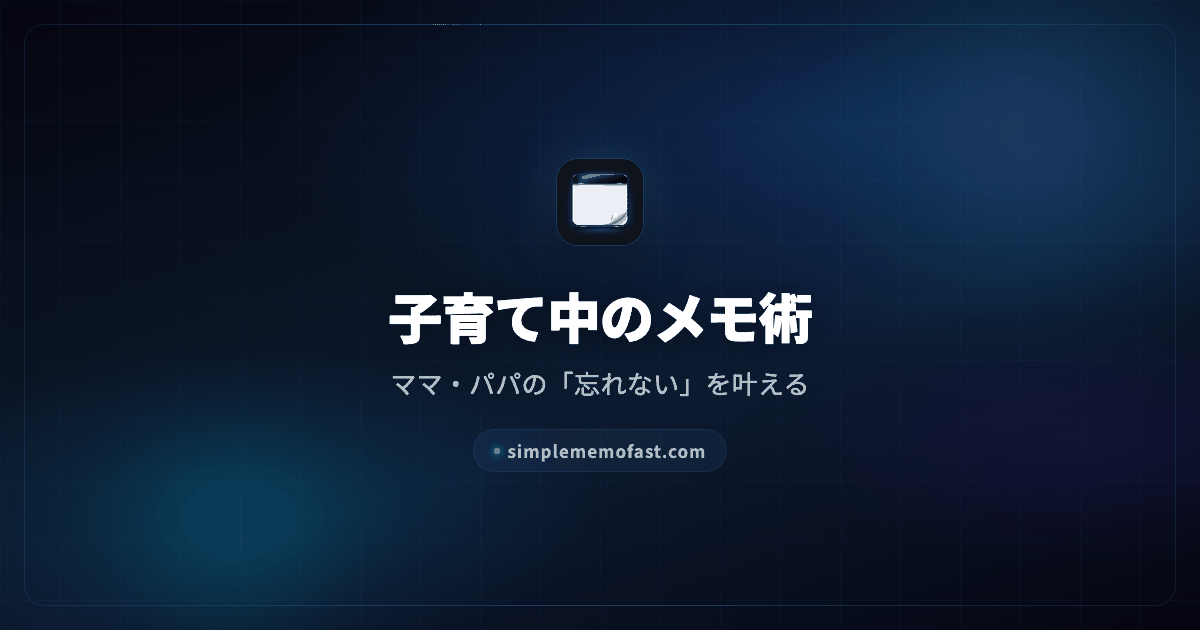
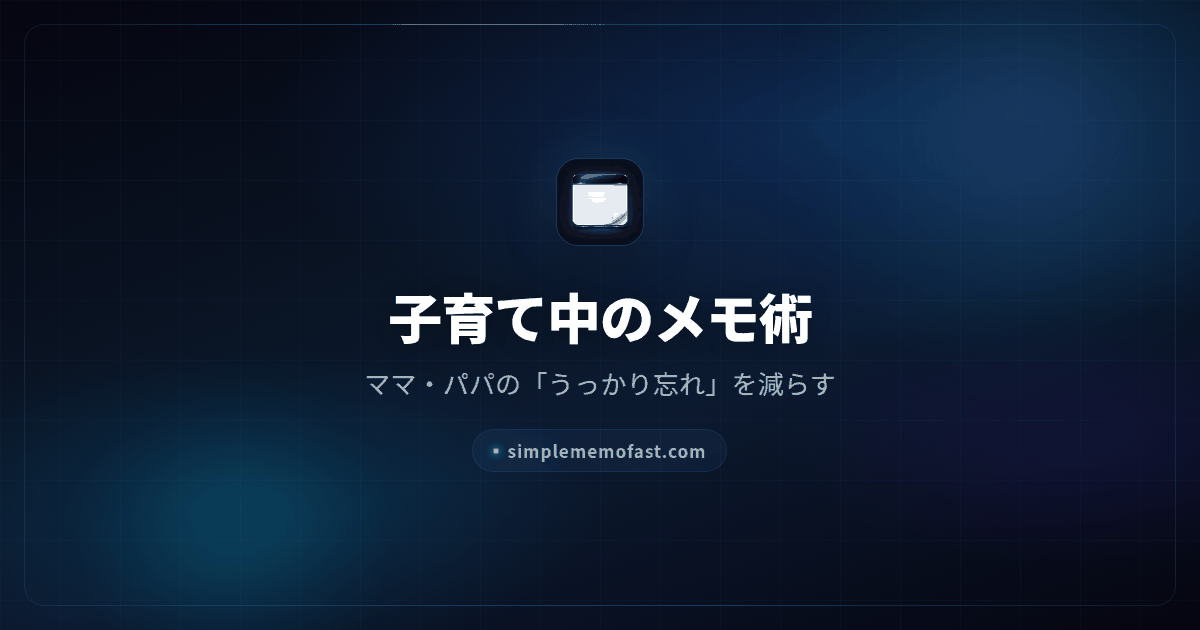
Merge validated PR #1625
Source PR: https://github.com/simplememofast/simplememo/pull/1625
Validated head: 515fc8d2d1dee462264075d669326b48ce7d5f42

Changed region(s): [[0.3083, 0.573, 0.7092, 0.6333], [0.4625, 0.4524, 0.6783, 0.5429], [0.3392, 0.4524, 0.4317, 0.5429]]

diff --git a/use-cases/parents/index.html b/use-cases/parents/index.html
@@ -23,13 +23,13 @@
       });
     });
   </script>
-  <title>子育て中のメモ術 — ママ・パパの「忘れない」を叶える | Obsidian連携シンプルメモ</title>
-  <meta name="description" content="子育て中の忙しいママ・パパ向けメモアプリ。起動0.4秒・ワンタップ送信で、子どもを抱っこしながらでも片手3秒でメモ→メール。育児中の「あとでやる」を忘れません。1日3通まで無料で使えます。育児中の記録がメール受信箱に自動で積み上がります。">
+  <title>子育て中のメモ術 — ママ・パパの「うっかり忘れ」を減らす | Obsidian連携シンプルメモ</title>
+  <meta name="description" content="子育て中の忙しいママ・パパ向けメモアプリ。起動0.4秒・ワンタップ送信で、子どもを抱っこしながらでも片手3秒でメモ→メール。育児中の「あとでやる」を忘れにくくなります。1日3通まで無料で使えます。育児中の記録がメール受信箱に自動で積み上がります。">
   <meta name="theme-color" content="#070b14">
 
   <!-- OGP -->
-  <meta property="og:title" content="子育て中のメモ術 — ママ・パパの「忘れない」を叶える | Obsidian連携シンプルメモ">
-  <meta property="og:description" content="子どもを抱っこしながらでも片手3秒でメモ→メール。起動0.4秒・ワンタップ送信。育児中の「あとでやる」を忘れません。">
+  <meta property="og:title" content="子育て中のメモ術 — ママ・パパの「うっかり忘れ」を減らす | Obsidian連携シンプルメモ">
+  <meta property="og:description" content="子どもを抱っこしながらでも片手3秒でメモ→メール。起動0.4秒・ワンタップ送信。育児中の「あとでやる」を忘れにくくなります。">
   <meta property="og:type" content="article">
   <meta property="article:published_time" content="2026-03-06T00:00:00+09:00">
   <meta property="og:url" content="https://simplememofast.com/use-cases/parents/">
@@ -43,7 +43,7 @@
   <!-- Twitter Card -->
   <meta name="twitter:card" content="summary_large_image">
   <meta name="twitter:site" content="@simplememofast">
-  <meta name="twitter:title" content="子育て中のメモ術 — ママ・パパの「忘れない」を叶える">
+  <meta name="twitter:title" content="子育て中のメモ術 — ママ・パパの「うっかり忘れ」を減らす">
   <meta name="twitter:description" content="子どもを抱っこしながらでも片手3秒でメモ→メール。起動0.4秒・ワンタップ送信。">
   <meta name="twitter:image" content="https://simplememofast.com/assets/img/og/use-cases-parents.png">
   <link rel="preconnect" href="https://analytics.ahrefs.com">
@@ -60,7 +60,7 @@
   <link rel="manifest" href="/assets/favicon/site.webmanifest">
 
   <!-- JSON-LD: Article -->
-  <script type="application/ld+json">{"@context":"https://schema.org","@type":"Article","@id":"https://simplememofast.com/use-cases/parents/#article","inLanguage":"ja","image":"https://simplememofast.com/assets/img/og/use-cases-parents.png","headline":"子育て中のメモ術 — ママ・パパの「忘れない」を叶える方法","description":"子育て中の忙しいママ・パパが片手3秒でメモ→メール送信。育児中の予定やタスクを忘れない方法を解説。","url":"https://simplememofast.com/use-cases/parents/","datePublished":"2026-03-06","dateModified":"2026-09-06","author":{"@type":"Person","@id":"https://simplememofast.com/about/#person","name":"AI ATAKA","url":"https://simplememofast.com/about/"},"publisher":{"@type":"Organization","name":"Obsidian連携シンプルメモ","@id":"https://simplememofast.com/#organization","url":"https://simplememofast.com/","logo":{"@type":"ImageObject","url":"https://simplememofast.com/assets/img/app-icon-256.png","width":256,"height":256},"alternateName":["Captio式シンプルメモ","シンプルメモ","SimpleMemoFast","Simple Memo","Simple Memo - for Obsidian"]},"mainEntityOfPage":{"@type":"WebPage","@id":"https://simplememofast.com/use-cases/parents/"}}</script>
+  <script type="application/ld+json">{"@context":"https://schema.org","@type":"Article","@id":"https://simplememofast.com/use-cases/parents/#article","inLanguage":"ja","image":"https://simplememofast.com/assets/img/og/use-cases-parents.png","headline":"子育て中のメモ術 — ママ・パパの「うっかり忘れ」を減らす方法","description":"子育て中の忙しいママ・パパが片手3秒でメモ→メール送信。育児中の予定やタスクの忘れを減らす方法を解説。","url":"https://simplememofast.com/use-cases/parents/","datePublished":"2026-03-06","dateModified":"2026-09-26","author":{"@type":"Person","@id":"https://simplememofast.com/about/#person","name":"AI ATAKA","url":"https://simplememofast.com/about/"},"publisher":{"@type":"Organization","name":"Obsidian連携シンプルメモ","@id":"https://simplememofast.com/#organization","url":"https://simplememofast.com/","logo":{"@type":"ImageObject","url":"https://simplememofast.com/assets/img/app-icon-256.png","width":256,"height":256},"alternateName":["Captio式シンプルメモ","シンプルメモ","SimpleMemoFast","Simple Memo","Simple Memo - for Obsidian"]},"mainEntityOfPage":{"@type":"WebPage","@id":"https://simplememofast.com/use-cases/parents/"}}</script>
 
   <!-- JSON-LD: BreadcrumbList -->
   <script type="application/ld+json">
@@ -256,7 +256,7 @@
 
   <!-- JSON-LD: Speakable -->
   <script type="application/ld+json">
-  {"@context":"https://schema.org","@type":"WebPage","@id":"https://simplememofast.com/use-cases/parents/#webpage","inLanguage":"ja","name":"子育て中のメモ術 — ママ・パパの「忘れない」を叶える","speakable":{"@type":"SpeakableSpecification","cssSelector":[".lp-hero__title",".lp-hero__sub",".scenario-block__title"]},"url":"https://simplememofast.com/use-cases/parents/","isPartOf":{"@id":"https://simplememofast.com/#website"}}
+  {"@context":"https://schema.org","@type":"WebPage","@id":"https://simplememofast.com/use-cases/parents/#webpage","inLanguage":"ja","name":"子育て中のメモ術 — ママ・パパの「うっかり忘れ」を減らす","speakable":{"@type":"SpeakableSpecification","cssSelector":[".lp-hero__title",".lp-hero__sub",".scenario-block__title"]},"url":"https://simplememofast.com/use-cases/parents/","isPartOf":{"@id":"https://simplememofast.com/#website"}}
   </script>
   <script src="https://analytics.ahrefs.com/analytics.js" data-key="6MwVxHQiKMs/Wl2rNBoiwQ" async></script>
   <!-- faq-schema: managed by scripts/inject_faq_schema.py -->
@@ -301,7 +301,7 @@
 
         </div>
         <h1 class="lp-hero__title">
-          <span lang="ja">子育て中の「忘れない」を<br>片手3秒のメモで叶える</span>
+          <span lang="ja">子育て中の「うっかり忘れ」を<br>片手3秒のメモで減らす</span>
 
         </h1>
         <p class="lp-hero__sub">
@@ -441,7 +441,7 @@
       <!-- CTA -->
       <div class="cta-box">
         <div class="cta-box__title">
-          <span lang="ja">子育て中の「忘れない」を今日から始める</span>
+          <span lang="ja">子育て中の「うっかり忘れ」対策を今日から始める</span>
 
         </div>
         <div class="cta-box__desc">

diff --git a/en/use-cases/parents/index.html b/en/use-cases/parents/index.html
@@ -24,11 +24,11 @@
       });
     });
   </script>
-<title>Memo Tips for Busy Parents — Never Forget Again | Simple Memo</title>
+<title>Memo Tips for Busy Parents — Forget Less, One-Handed | Simple Memo</title>
 <meta content="Capture tasks in 3 seconds with one hand while holding your baby. 0.4s launch, one-tap send to email. Review everything during naptime." name="description"/>
 <meta content="#070b14" name="theme-color"/>
 <!-- OGP -->
-<meta content="Memo Tips for Busy Parents — Never Forget Again" property="og:title"/>
+<meta content="Memo Tips for Busy Parents — Forget Less, One-Handed" property="og:title"/>
 <meta content="Capture tasks in 3 seconds with one hand while holding your baby. 0.4s launch, one-tap send to email. Review everything during naptime." property="og:description"/>
 <meta content="article" property="og:type"/>
 <meta content="2026-03-06T00:00:00+09:00" property="article:published_time"/>
@@ -42,7 +42,7 @@
 <!-- Twitter Card -->
 <meta content="summary_large_image" name="twitter:card"/>
 <meta content="@simplememofast" name="twitter:site"/>
-<meta content="Memo Tips for Busy Parents — Never Forget Again" name="twitter:title"/>
+<meta content="Memo Tips for Busy Parents — Forget Less, One-Handed" name="twitter:title"/>
 <meta content="Capture tasks in 3 seconds with one hand while holding your baby. 0.4s launch, one-tap send to email. Review everything during naptime." name="twitter:description"/>
 <meta content="https://simplememofast.com/assets/img/og/use-cases-parents.png" name="twitter:image"/>
 <link href="https://analytics.ahrefs.com" rel="preconnect"/>
@@ -54,9 +54,9 @@
 <link href="/assets/favicon/apple-touch-icon.png" rel="apple-touch-icon" sizes="180x180"/>
 <link href="/assets/favicon/site.webmanifest" rel="manifest"/>
 <!-- JSON-LD: Article -->
-<script type="application/ld+json">{"@context":"https://schema.org","@type":"Article","@id":"https://simplememofast.com/en/use-cases/parents/#article","inLanguage":"en","image":"https://simplememofast.com/assets/img/og/use-cases-parents.png","headline":"Memo Tips for Busy Parents — Never Forget Again | Simple Memo","description":"Capture tasks in 3 seconds with one hand while holding your baby. 0.4s launch, one-tap send to email. Review everything during naptime.","url":"https://simplememofast.com/en/use-cases/parents/","datePublished":"2026-03-06","dateModified":"2026-09-06","author":{"@type":"Person","@id":"https://simplememofast.com/about/#person","name":"AI ATAKA","url":"https://simplememofast.com/about/"},"publisher":{"@type":"Organization","name":"Simple Memo - for Obsidian","@id":"https://simplememofast.com/#organization","url":"https://simplememofast.com/","logo":{"@type":"ImageObject","url":"https://simplememofast.com/assets/img/app-icon-256.png","width":256,"height":256},"alternateName":["Simple Memo - for Obsidian","シンプルメモ","SimpleMemoFast","Simple Memo","Obsidian連携シンプルメモ"]},"mainEntityOfPage":{"@type":"WebPage","@id":"https://simplememofast.com/en/use-cases/parents/"}}</script>
+<script type="application/ld+json">{"@context":"https://schema.org","@type":"Article","@id":"https://simplememofast.com/en/use-cases/parents/#article","inLanguage":"en","image":"https://simplememofast.com/assets/img/og/use-cases-parents.png","headline":"Memo Tips for Busy Parents — Forget Less, One-Handed | Simple Memo","description":"Capture tasks in 3 seconds with one hand while holding your baby. 0.4s launch, one-tap send to email. Review everything during naptime.","url":"https://simplememofast.com/en/use-cases/parents/","datePublished":"2026-03-06","dateModified":"2026-09-26","author":{"@type":"Person","@id":"https://simplememofast.com/about/#person","name":"AI ATAKA","url":"https://simplememofast.com/about/"},"publisher":{"@type":"Organization","name":"Simple Memo - for Obsidian","@id":"https://simplememofast.com/#organization","url":"https://simplememofast.com/","logo":{"@type":"ImageObject","url":"https://simplememofast.com/assets/img/app-icon-256.png","width":256,"height":256},"alternateName":["Simple Memo - for Obsidian","シンプルメモ","SimpleMemoFast","Simple Memo","Obsidian連携シンプルメモ"]},"mainEntityOfPage":{"@type":"WebPage","@id":"https://simplememofast.com/en/use-cases/parents/"}}</script>
 <!-- JSON-LD: BreadcrumbList -->
-<script type="application/ld+json">{"@context":"https://schema.org","@type":"BreadcrumbList","itemListElement":[{"@type":"ListItem","position":1,"name":"Home","item":"https://simplememofast.com/en/"},{"@type":"ListItem","position":2,"name":"Use Cases How to Use Simple Memo","item":"https://simplememofast.com/en/use-cases/"},{"@type":"ListItem","position":3,"name":"Never Forget a Thing with 3-Second Parenting Memos","item":"https://simplememofast.com/en/use-cases/parents/"}]}</script>
+<script type="application/ld+json">{"@context":"https://schema.org","@type":"BreadcrumbList","itemListElement":[{"@type":"ListItem","position":1,"name":"Home","item":"https://simplememofast.com/en/"},{"@type":"ListItem","position":2,"name":"Use Cases How to Use Simple Memo","item":"https://simplememofast.com/en/use-cases/"},{"@type":"ListItem","position":3,"name":"Forget Less with 3-Second Parenting Memos","item":"https://simplememofast.com/en/use-cases/parents/"}]}</script>
 <link href="/assets/css/style.min.css?v=aa4747a0f6" rel="stylesheet"/>
 <link as="font" crossorigin="" href="/assets/fonts/NotoSansJP-Regular-subset.woff2?v=a4c50a515e" rel="preload" type="font/woff2"/>
 <link as="font" crossorigin="" href="/assets/fonts/NotoSansJP-Bold-subset.woff2?v=7c9688959a" rel="preload" type="font/woff2"/>
@@ -238,7 +238,7 @@
 
   </style>
 <!-- JSON-LD: Speakable -->
-<script type="application/ld+json">{"@context":"https://schema.org","@type":"WebPage","@id":"https://simplememofast.com/en/use-cases/parents/#webpage","inLanguage":"en","name":"Memo Tips for Busy Parents — Never Forget Again | Simple Memo","speakable":{"@type":"SpeakableSpecification","cssSelector":[".lp-hero__title",".lp-hero__sub",".scenario-block__title"]},"url":"https://simplememofast.com/en/use-cases/parents/","isPartOf":{"@id":"https://simplememofast.com/#website"}}</script>
+<script type="application/ld+json">{"@context":"https://schema.org","@type":"WebPage","@id":"https://simplememofast.com/en/use-cases/parents/#webpage","inLanguage":"en","name":"Memo Tips for Busy Parents — Forget Less, One-Handed | Simple Memo","speakable":{"@type":"SpeakableSpecification","cssSelector":[".lp-hero__title",".lp-hero__sub",".scenario-block__title"]},"url":"https://simplememofast.com/en/use-cases/parents/","isPartOf":{"@id":"https://simplememofast.com/#website"}}</script>
 <script async="" data-key="6MwVxHQiKMs/Wl2rNBoiwQ" src="https://analytics.ahrefs.com/analytics.js"></script>
   <!-- i18n: managed by scripts/normalize_i18n_head.py -->
   <link rel="canonical" href="https://simplememofast.com/en/use-cases/parents/">
@@ -288,7 +288,7 @@
 </div>
 <h1 class="lp-hero__title">
 
-<span lang="en">Never Forget a Thing<br/>with 3-Second Parenting Memos</span>
+<span lang="en">Forget Less<br/>with 3-Second Parenting Memos</span>
 </h1>
 <p class="lp-hero__sub">
 

diff --git a/blog/morning-memo-routine.html b/blog/morning-memo-routine.html
@@ -277,11 +277,11 @@
         <div class="tip-card">
           <div class="tip-card__desc">
             <p>毎朝「今日の3つ」を書いて自分宛てに送っておけば、午前中に何から手をつけるかで迷う時間を減らせます。</p>
-            <p style="margin-top:.75rem">朝のメモが効果的な3つの科学的理由：</p>
+            <p style="margin-top:.75rem">朝のメモが役立ちやすい3つの理由：</p>
             <ul style="margin-top:.5rem;padding-left:1.2rem">
-              <li><strong>前頭前皮質の活性化：</strong>起床後2〜4時間は前頭前皮質（計画・判断を司る脳の部位）が最も活性化しています。この時間にメモを書くと、質の高い計画が立てられます。</li>
-              <li><strong>意志力の温存：</strong>1日の意志力（ウィルパワー）は有限。朝一番にメモで計画を立てれば、日中の意思決定の負荷が減り、重要な判断にエネルギーを使えます。</li>
-              <li><strong>ザイガルニク効果：</strong>未完了のタスクは脳にストレスを与え続けます。朝にタスクを書き出すことで「脳の外部メモリ」に移し、ストレスを解放します。</li>
+              <li><strong>考えやすい時間に書く：</strong>朝のほうが計画を立てやすい人は多いものの、朝型・夜型には個人差があります（Randler 2009 は、主体性の高い人ほど朝型の傾向があると報告）。自分が落ち着いて考えられる時間に書くのが基本です。</li>
+              <li><strong>迷う回数を減らす：</strong>朝に計画を決めておけば、日中に「次に何をするか」を考える回数が減ります（「意志力は使うと減る」という自我消耗の説は、2016年の大規模な再現研究では効果がほとんど見られませんでした）。</li>
+              <li><strong>書き出して手放す：</strong>やり残したことを具体的な計画として書き出すと、それが頭から離れない状態が弱まったという実験があります（Masicampo &amp; Baumeister 2011）。</li>
             </ul>
           </div>
         </div>
@@ -395,7 +395,7 @@
       <div lang="ja">
         <div class="tip-card">
           <div class="tip-card__desc">
-            <p>「朝メモに15分もかけられない」という方のために、たった3分で完了する超効率テンプレートを紹介します。このテンプレートは、認知科学の「プライミング効果」を活用し、短時間でも脳を仕事モードに切り替えます。</p>
+            <p>「朝メモに15分もかけられない」という方のために、たった3分で完了する超効率テンプレートを紹介します。短い時間でも、その日の最初にやることを決めてから動き出せます。</p>
             <p style="margin-top:.75rem"><strong>3分テンプレート：</strong></p>
             <ol style="margin-top:.5rem;padding-left:1.2rem;line-height:2.2">
               <li><strong>0:00〜0:30 — 今の気分を一言で（感情チェックイン）</strong><br>「やる気あり」「少しだるい」「ワクワク」など。自分の状態を客観視することで、1日の過ごし方を調整できます。</li>
@@ -413,7 +413,7 @@
           </div>
         </div>
         <div class="tip-card">
-          <div class="tip-card__header"><span class="tip-card__name">3分テンプレートが効く理由</span><span class="tip-card__rank">科学的根拠</span></div>
+          <div class="tip-card__header"><span class="tip-card__name">3分テンプレートが効く理由</span><span class="tip-card__rank">研究</span></div>
           <div class="tip-card__desc">
             <p>この短縮テンプレートが効果的な理由は3つあります。</p>
             <ul style="margin-top:.5rem;padding-left:1.2rem">
@@ -480,7 +480,7 @@
         <a href="/blog/memo-habit"><span lang="ja">メモ習慣化ガイド</span></a>
         <a href="/blog/journaling-for-beginners"><span lang="ja">ジャーナリング入門</span></a>
         <a href="/blog/memo-taking-tips"><span lang="ja">メモの取り方コツ10選</span></a>
-        <a href="/blog/brain-science-memo"><span lang="ja">脳科学とメモ</span></a>
+        <a href="/blog/brain-science-memo"><span lang="ja">メモと記憶の研究</span></a>
         <a href="/methods/"><span lang="ja">メソッド一覧</span></a>
         <a href="/blog/"><span lang="ja">ブログ一覧</span></a>
       </div>
@@ -493,6 +493,8 @@
         <li lang="ja">Randler, C. (2009). Proactive People Are Morning People（主体性の高い人は朝型である）. <em>Journal of Applied Social Psychology</em>, 39(12), 2787-2797. <a href="https://doi.org/10.1111/j.1559-1816.2009.00549.x" style="color:var(--accent);">DOI</a></li>
 
         <li lang="ja">Baumeister, R.F. et al. (1998). 「自我消耗：能動的自己が限られたリソースであるか」 <em>Journal of Personality and Social Psychology</em>, 74(5), 1252-1265. <a href="https://doi.org/10.1037/0022-3514.74.5.1252" style="color:var(--accent);">DOI</a></li>
+
+        <li lang="ja">Hagger, M.S. et al. (2016). A Multilab Preregistered Replication of the Ego-Depletion Effect（自我消耗効果の多施設・事前登録の再現研究）. <em>Perspectives on Psychological Science</em>, 11(4), 546-573. <a href="https://doi.org/10.1177/1745691616652873" style="color:var(--accent);">DOI</a></li>
 
         <li lang="ja">Masicampo, E.J. &amp; Baumeister, R.F. (2011). Consider it done! Plan making can eliminate the cognitive effects of unfulfilled goals（完了したとみなせ！計画を立てると未達成の目標の認知的な影響は解消しうる） <em>Journal of Personality and Social Psychology</em>, 101(4), 667-683. <a href="https://doi.org/10.1037/a0024192" style="color:var(--accent);">DOI</a></li>
 

diff --git a/blog/digital-vs-handwritten-notes.html b/blog/digital-vs-handwritten-notes.html
@@ -348,7 +348,7 @@
       <h2 class="lp-section__title"><span lang="ja">ハイブリッド活用のベストプラクティス</span></h2>
       <div lang="ja">
         <div class="tip-card"><div class="tip-card__header"><span class="tip-card__name"><span class="step-number">1</span>キャプチャはデジタル、深掘りは手書き</span><span class="tip-card__rank">基本戦略</span></div><div class="tip-card__desc"><p>最も効果的なハイブリッド戦略は、「思いついた瞬間のキャプチャはデジタル、後から深く考えるときは手書き」の使い分けです。アイデアが浮かんだ瞬間にObsidian連携シンプルメモで即座に送信し、1日の終わりや週末にメールを見返しながら重要なものだけを手書きノートに転記して深掘りします。</p><p style="margin-top:.75rem">この方法は、日々のアプリ開発でも実践しており、通勤中に浮かんだUIの改善案をデジタルでキャプチャし、週末に手書きでスケッチに落とし込んでいます。このワークフローの利点は、アイデアの取りこぼしが減ることです。デジタルキャプチャは速度と網羅性に優れ、手書き転記は記憶定着と思考の深掘りに優れます。両方の長所を最大化するハイブリッドアプローチです。</p></div></div>
-        <div class="tip-card"><div class="tip-card__header"><span class="tip-card__name"><span class="step-number">2</span>「朝は手書き、日中はデジタル」の時間帯分け</span><span class="tip-card__rank">時間戦略</span></div><div class="tip-card__desc"><p>朝の静かな時間帯に手書きで「今日の目標」や「朝のリフレクション」を書き、日中のアクティブな時間帯はデジタルでアイデアやタスクをキャプチャする。この時間帯による使い分けも効果的です。</p><p style="margin-top:.75rem">朝の手書きは脳のウォーミングアップとして機能し、前頭前皮質を活性化させます。モーニングページ（ジュリア・キャメロン提唱の朝のジャーナリング手法）を手書きで実践している人も多いです。一方、日中は移動や会議が多く、手書きの余裕がないため、スマホでのデジタルキャプチャが現実的です。この切り替えにより、両方のメリットを1日の中で享受できます。</p></div></div>
+        <div class="tip-card"><div class="tip-card__header"><span class="tip-card__name"><span class="step-number">2</span>「朝は手書き、日中はデジタル」の時間帯分け</span><span class="tip-card__rank">時間戦略</span></div><div class="tip-card__desc"><p>朝の静かな時間帯に手書きで「今日の目標」や「朝のリフレクション」を書き、日中のアクティブな時間帯はデジタルでアイデアやタスクをキャプチャする。この時間帯による使い分けも効果的です。</p><p style="margin-top:.75rem">朝の手書きを、1日の考えを整える準備の時間にしている人もいます。モーニングページ（ジュリア・キャメロン提唱の朝のジャーナリング手法）を手書きで実践している人も多いです。一方、日中は移動や会議が多く、手書きの余裕がないため、スマホでのデジタルキャプチャが現実的です。この切り替えにより、両方のメリットを1日の中で享受できます。</p></div></div>
         <div class="tip-card"><div class="tip-card__header"><span class="tip-card__name"><span class="step-number">3</span>手書きメモをデジタルでバックアップする</span><span class="tip-card__rank">安全策</span></div><div class="tip-card__desc"><p>手書きメモの最大のリスクは紛失です。ノートを置き忘れる、水に濡れる、ページが破れる。これらのリスクを回避するために、手書きメモの写真をObsidian連携シンプルメモで自分のメールに送信するバックアップ術が有効です。</p><p style="margin-top:.75rem">実践方法はシンプルです。手書きメモを1ページ書き終えたら、スマホで写真を撮り、その画像をCaptio式で自分のメールに送信するだけ。これで手書きの記憶定着効果を得ながら、デジタルのバックアップと検索性も確保できます。メールの件名に「手書きノート 日付 トピック」を入れておけば、後から検索も容易です。</p></div></div>
         <div class="tip-card"><div class="tip-card__header"><span class="tip-card__name"><span class="step-number">4</span>用途別の「ツールマップ」を作る</span><span class="tip-card__rank">仕組み化</span></div><div class="tip-card__desc"><p>ハイブリッド運用を成功させるには、「何にどちらを使うか」を事前に決めておくことが重要です。判断に迷う時間をゼロにするために、自分だけの「ツールマップ」を作りましょう。</p><p style="margin-top:.75rem">例えば：アイデアメモ → デジタル（Captio式）、勉強ノート → 手書き（A5ノート）、会議メモ → デジタル（Captio式で送信後にメール内で整理）、読書感想 → 手書き（余白に直接書き込み＋重要部分をデジタルでキャプチャ）、日記 → 手書き（寝る前の5分）。このように用途ごとにツールを固定することで、「どっちを使おうか」という判断コストがなくなり、メモの習慣が定着しやすくなります。</p></div></div>
       </div>

diff --git a/blog/memo-habit.html b/blog/memo-habit.html
@@ -224,7 +224,7 @@
   </style>
   <script src="https://analytics.ahrefs.com/analytics.js" data-key="6MwVxHQiKMs/Wl2rNBoiwQ" async></script>
   <!-- faq-schema: managed by scripts/inject_faq_schema.py -->
-  <script type="application/ld+json">{"@context":"https://schema.org","@type":"FAQPage","@id":"https://simplememofast.com/blog/memo-habit#faq","inLanguage":"ja","mainEntity":[{"@type":"Question","name":"メモ習慣が続かない原因は何ですか？","acceptedAnswer":{"@type":"Answer","text":"最大の原因は「摩擦」です。アプリの起動が遅い、書く内容を考えすぎる、完璧なメモを目指すなどの摩擦がメモ習慣を阻害します。摩擦を徹底的に減らすことが習慣化の鍵です。"}},{"@type":"Question","name":"メモを習慣にするには何日かかりますか？","acceptedAnswer":{"@type":"Answer","text":"ロンドン大学（UCL）の研究（Lally ほか, 2010）では、行動が自動的にできるようになるまでの日数は、人と行動によって18〜254日と幅があり、中央値は66日でした。21日間のプログラムは最初の区切りとして使ってください。この研究では、1日抜けても、その後の定着への影響は小さいと報告されています。"}},{"@type":"Question","name":"朝と夜、どちらにメモを取るべきですか？","acceptedAnswer":{"@type":"Answer","text":"朝は「今日やること」のプランニングメモ、夜は「今日の振り返り」メモが効果的です。両方できれば理想的ですが、まずはどちらか一方から始めるのがおすすめです。"}}]}</script>
+  <script type="application/ld+json">{"@context":"https://schema.org","@type":"FAQPage","@id":"https://simplememofast.com/blog/memo-habit#faq","inLanguage":"ja","mainEntity":[{"@type":"Question","name":"メモ習慣が続かない原因は何ですか？","acceptedAnswer":{"@type":"Answer","text":"よくある原因は「摩擦」です。アプリの起動が遅い、書く内容を考えすぎる、完璧なメモを目指すなどの摩擦がメモ習慣を阻害します。摩擦を徹底的に減らすことが習慣化の鍵です。"}},{"@type":"Question","name":"メモを習慣にするには何日かかりますか？","acceptedAnswer":{"@type":"Answer","text":"ロンドン大学（UCL）の研究（Lally ほか, 2010）では、行動が自動的にできるようになるまでの日数は、人と行動によって18〜254日と幅があり、中央値は66日でした。21日間のプログラムは最初の区切りとして使ってください。この研究では、1日抜けても、その後の定着への影響は小さいと報告されています。"}},{"@type":"Question","name":"朝と夜、どちらにメモを取るべきですか？","acceptedAnswer":{"@type":"Answer","text":"朝は「今日やること」のプランニングメモ、夜は「今日の振り返り」メモが効果的です。両方できれば理想的ですが、まずはどちらか一方から始めるのがおすすめです。"}}]}</script>
 </head>
 <body>
   <!-- Global Navigation -->
@@ -496,7 +496,7 @@
     <section class="lp-section">
       <h2 class="lp-section__title"><span lang="ja">よくある質問</span></h2>
       <div lang="ja">
-        <div class="faq-item"><details class="faq-details"><summary class="faq-summary">メモ習慣が続かない原因は何ですか？</summary><div class="faq-answer"><p>最大の原因は「摩擦」です。アプリの起動が遅い、書く内容を考えすぎる、完璧なメモを目指すなどの摩擦がメモ習慣を阻害します。摩擦を徹底的に減らすことが習慣化の鍵です。</p></div></details></div>
+        <div class="faq-item"><details class="faq-details"><summary class="faq-summary">メモ習慣が続かない原因は何ですか？</summary><div class="faq-answer"><p>よくある原因は「摩擦」です。アプリの起動が遅い、書く内容を考えすぎる、完璧なメモを目指すなどの摩擦がメモ習慣を阻害します。摩擦を徹底的に減らすことが習慣化の鍵です。</p></div></details></div>
         <div class="faq-item"><details class="faq-details"><summary class="faq-summary">メモを習慣にするには何日かかりますか？</summary><div class="faq-answer"><p>ロンドン大学（UCL）の研究（Lally ほか, 2010）では、行動が自動的にできるようになるまでの日数は、人と行動によって18〜254日と幅があり、中央値は66日でした。21日間のプログラムは最初の区切りとして使ってください。この研究では、1日抜けても、その後の定着への影響は小さいと報告されています。</p></div></details></div>
         <div class="faq-item"><details class="faq-details"><summary class="faq-summary">朝と夜、どちらにメモを取るべきですか？</summary><div class="faq-answer"><p>朝は「今日やること」のプランニングメモ、夜は「今日の振り返り」メモが効果的です。両方できれば理想的ですが、まずはどちらか一方から始めるのがおすすめです。</p></div></details></div>
       </div>

diff --git a/en/blog/memo-habit.html b/en/blog/memo-habit.html
@@ -202,7 +202,7 @@
   <!-- locale-seed: declare EN once so dual-DOM pages resolve to English (scripts/inject_locale_seed.py) -->
   <script>try{var k='simple-memo-lang';if(!localStorage.getItem(k))localStorage.setItem(k,'en')}catch(e){}</script>
   <!-- faq-schema: managed by scripts/inject_faq_schema.py -->
-  <script type="application/ld+json">{"@context":"https://schema.org","@type":"FAQPage","@id":"https://simplememofast.com/en/blog/memo-habit#faq","inLanguage":"en","mainEntity":[{"@type":"Question","name":"Why can't I stick to a note-taking habit?","acceptedAnswer":{"@type":"Answer","text":"The biggest reason is friction. Slow app launches, overthinking what to write, and aiming for perfect notes all create friction that kills habits. Reducing friction is the key to building a lasting memo habit."}},{"@type":"Question","name":"How long does it take to build a memo habit?","acceptedAnswer":{"@type":"Answer","text":"A University College London study (Lally et al., 2010) found that the time for a behavior to become automatic ranged from 18 to 254 days depending on the person and the behavior, with a median of 66 days. Treat the 21-day program as a first milestone; in that study, missing a single day did not materially affect habit formation."}},{"@type":"Question","name":"Should I take notes in the morning or evening?","acceptedAnswer":{"@type":"Answer","text":"Morning is best for planning memos (what to do today), evening for reflection memos (what happened today). Ideally do both, but start with whichever feels more natural."}}]}</script>
+  <script type="application/ld+json">{"@context":"https://schema.org","@type":"FAQPage","@id":"https://simplememofast.com/en/blog/memo-habit#faq","inLanguage":"en","mainEntity":[{"@type":"Question","name":"Why can't I stick to a note-taking habit?","acceptedAnswer":{"@type":"Answer","text":"A common reason is friction. Slow app launches, overthinking what to write, and aiming for perfect notes all create friction that kills habits. Reducing friction is the key to building a lasting memo habit."}},{"@type":"Question","name":"How long does it take to build a memo habit?","acceptedAnswer":{"@type":"Answer","text":"A University College London study (Lally et al., 2010) found that the time for a behavior to become automatic ranged from 18 to 254 days depending on the person and the behavior, with a median of 66 days. Treat the 21-day program as a first milestone; in that study, missing a single day did not materially affect habit formation."}},{"@type":"Question","name":"Should I take notes in the morning or evening?","acceptedAnswer":{"@type":"Answer","text":"Morning is best for planning memos (what to do today), evening for reflection memos (what happened today). Ideally do both, but start with whichever feels more natural."}}]}</script>
 </head>
 <body>
 <!-- Global Navigation -->
@@ -465,7 +465,7 @@
 <h2 class="lp-section__title"><span lang="en">FAQ</span></h2>
 
 <div lang="en">
-<div class="faq-item"><details class="faq-details"><summary class="faq-summary">Why can't I stick to a note-taking habit?</summary><div class="faq-answer"><p>The biggest reason is friction. Slow app launches, overthinking what to write, and aiming for perfect notes all create friction that kills habits. Reducing friction is the key to building a lasting memo habit.</p></div></details></div>
+<div class="faq-item"><details class="faq-details"><summary class="faq-summary">Why can't I stick to a note-taking habit?</summary><div class="faq-answer"><p>A common reason is friction. Slow app launches, overthinking what to write, and aiming for perfect notes all create friction that kills habits. Reducing friction is the key to building a lasting memo habit.</p></div></details></div>
 <div class="faq-item"><details class="faq-details"><summary class="faq-summary">How long does it take to build a memo habit?</summary><div class="faq-answer"><p>A University College London study (Lally et al., 2010) found that the time for a behavior to become automatic ranged from 18 to 254 days depending on the person and the behavior, with a median of 66 days. Treat the 21-day program as a first milestone; in that study, missing a single day did not materially affect habit formation.</p></div></details></div>
 <div class="faq-item"><details class="faq-details"><summary class="faq-summary">Should I take notes in the morning or evening?</summary><div class="faq-answer"><p>Morning is best for planning memos (what to do today), evening for reflection memos (what happened today). Ideally do both, but start with whichever feels more natural.</p></div></details></div>
 </div>

diff --git a/en/blog/morning-memo-routine.html b/en/blog/morning-memo-routine.html
@@ -252,11 +252,11 @@
 <div lang="en">
 <div class="tip-card">
 <div class="tip-card__desc">
-<p>3 scientific reasons why morning memos work:</p>
+<p>3 reasons morning memos tend to help:</p>
 <ul style="margin-top:.5rem;padding-left:1.2rem">
-<li><strong>Prefrontal cortex activation:</strong> 2-4 hours after waking, the prefrontal cortex (planning and judgment center) is most active. Writing memos during this window produces higher quality plans.</li>
-<li><strong>Willpower conservation:</strong> Daily willpower is finite. Planning via morning memos reduces decision fatigue, saving energy for important choices.</li>
-<li><strong>Zeigarnik effect:</strong> Unfinished tasks create ongoing mental stress. Writing tasks down transfers them to "external brain memory," releasing cognitive load.</li>
+<li><strong>Write when you think clearly:</strong> Many people find planning easier in the morning, but chronotypes differ (Randler 2009 reported that more proactive people tend to be morning types). Write at the time you can think calmly.</li>
+<li><strong>Fewer decisions later:</strong> Deciding the plan in the morning means fewer "what next?" moments during the day. (The ego-depletion idea that willpower runs out showed an effect near zero in a large 2016 multi-lab replication.)</li>
+<li><strong>Write it down and let go:</strong> In experiments, making a specific plan for an unfinished task reduced how much it kept intruding on people's thoughts (Masicampo &amp; Baumeister 2011).</li>
 </ul>
 </div>
 </div>
@@ -364,7 +364,7 @@
 <div lang="en">
 <div class="tip-card">
 <div class="tip-card__desc">
-<p>If you think "I can't spend 15 minutes on morning memos," here is an ultra-efficient 3-minute template. It leverages the cognitive science concept of "priming effect" to shift your brain into work mode even in a short time.</p>
+<p>If you think "I can't spend 15 minutes on morning memos," here is an ultra-efficient 3-minute template. Even in a short time, you decide the first thing to do before you start.</p>
 <p style="margin-top:.75rem"><strong>3-Minute Template:</strong></p>
 <ol style="margin-top:.5rem;padding-left:1.2rem;line-height:2.2">
 <li><strong>0:00-0:30 -- Mood check-in (one word)</strong><br/>"Energized," "a bit tired," "excited," etc. Objectively observing your state helps you adjust how you approach the day.</li>
@@ -382,7 +382,7 @@
           </div>
 </div>
 <div class="tip-card">
-<div class="tip-card__header"><span class="tip-card__name">Why the 3-Minute Template Works</span><span class="tip-card__rank">Science-Backed</span></div>
+<div class="tip-card__header"><span class="tip-card__name">Why the 3-Minute Template Works</span><span class="tip-card__rank">Research</span></div>
 <div class="tip-card__desc">
 <p>Three reasons this short template is effective:</p>
 <ul style="margin-top:.5rem;padding-left:1.2rem">
@@ -445,7 +445,7 @@
 <a href="/en/blog/memo-habit"><span lang="en">Memo Habit Guide</span></a>
 <a href="/en/blog/journaling-for-beginners"><span lang="en">Journaling Guide</span></a>
 <a href="/en/blog/memo-taking-tips"><span lang="en">10 Note-Taking Tips</span></a>
-<a href="/en/blog/brain-science-memo"><span lang="en">Brain Science of Memos</span></a>
+<a href="/en/blog/brain-science-memo"><span lang="en">Memory Research and Notes</span></a>
 <a href="/en/methods/"><span lang="en">Methods</span></a>
 <a href="/en/blog/"><span lang="en">All Articles</span></a>
 </div>
@@ -458,6 +458,8 @@
 <li lang="en">Randler, C. (2009). "Proactive People Are Morning People." <em>Journal of Applied Social Psychology</em>, 39(12), 2787-2797. <a href="https://doi.org/10.1111/j.1559-1816.2009.00549.x" style="color:var(--accent);">DOI</a></li>
 
 <li lang="en">Baumeister, R.F. et al. (1998). "Ego Depletion: Is the Active Self a Limited Resource?" <em>Journal of Personality and Social Psychology</em>, 74(5), 1252-1265. <a href="https://doi.org/10.1037/0022-3514.74.5.1252" style="color:var(--accent);">DOI</a></li>
+
+<li lang="en">Hagger, M.S. et al. (2016). "A Multilab Preregistered Replication of the Ego-Depletion Effect." <em>Perspectives on Psychological Science</em>, 11(4), 546-573. <a href="https://doi.org/10.1177/1745691616652873" style="color:var(--accent);">DOI</a></li>
 
 <li lang="en">Masicampo, E.J. &amp; Baumeister, R.F. (2011). "Consider It Done! Plan Making Can Eliminate the Cognitive Effects of Unfulfilled Goals." <em>Journal of Personality and Social Psychology</em>, 101(4), 667-683. <a href="https://doi.org/10.1037/a0024192" style="color:var(--accent);">DOI</a></li>
 

diff --git a/en/blog/digital-vs-handwritten-notes.html b/en/blog/digital-vs-handwritten-notes.html
@@ -323,7 +323,7 @@
 
 <div lang="en">
 <div class="tip-card"><div class="tip-card__header"><span class="tip-card__name"><span class="step-number">1</span>Capture Digitally, Deep-Dive by Hand</span><span class="tip-card__rank">Core Strategy</span></div><div class="tip-card__desc"><p>The most effective hybrid strategy: capture ideas digitally the instant they arise, then use handwriting for deeper exploration later. Fire off ideas via Simple Memo immediately. At day's end or on weekends, review emails and transfer important ones to a handwritten notebook for deeper processing.</p><p style="margin-top:.75rem">This workflow's advantage: zero idea loss. Digital capture excels at speed and coverage; handwriting transfer excels at retention and deep thinking. A hybrid approach that maximizes both strengths.</p></div></div>
-<div class="tip-card"><div class="tip-card__header"><span class="tip-card__name"><span class="step-number">2</span>"Mornings Handwritten, Daytime Digital" Split</span><span class="tip-card__rank">Time Strategy</span></div><div class="tip-card__desc"><p>Handwrite "today's goals" and "morning reflections" during quiet morning hours. Switch to digital for idea and task capture during the active daytime. This time-based split is highly effective.</p><p style="margin-top:.75rem">Morning handwriting serves as a brain warm-up, activating the prefrontal cortex. Many practice Julia Cameron's "Morning Pages" journaling by hand. During the day, meetings and commuting make handwriting impractical, so smartphone digital capture becomes realistic. This switching lets you enjoy both methods' benefits throughout the day.</p></div></div>
+<div class="tip-card"><div class="tip-card__header"><span class="tip-card__name"><span class="step-number">2</span>"Mornings Handwritten, Daytime Digital" Split</span><span class="tip-card__rank">Time Strategy</span></div><div class="tip-card__desc"><p>Handwrite "today's goals" and "morning reflections" during quiet morning hours. Switch to digital for idea and task capture during the active daytime. This time-based split is highly effective.</p><p style="margin-top:.75rem">Some people use morning handwriting as a warm-up for the day's thinking. Many practice Julia Cameron's "Morning Pages" journaling by hand. During the day, meetings and commuting make handwriting impractical, so smartphone digital capture becomes realistic. This switching lets you enjoy both methods' benefits throughout the day.</p></div></div>
 <div class="tip-card"><div class="tip-card__header"><span class="tip-card__name"><span class="step-number">3</span>Back Up Handwritten Notes Digitally</span><span class="tip-card__rank">Safety Net</span></div><div class="tip-card__desc"><p>Handwritten notes' biggest risk is loss -- left behind, water-damaged, torn pages. A backup solution: photograph handwritten pages and send them to your own email via Simple Memo.</p><p style="margin-top:.75rem">The method is simple. After completing a handwritten page, photograph it and send the image via Simple Memo. You get handwriting's memory retention benefits plus digital backup and searchability. Include "Handwritten note [date] [topic]" in the subject for easy future searching.</p></div></div>
 <div class="tip-card"><div class="tip-card__header"><span class="tip-card__name"><span class="step-number">4</span>Create Your Personal "Tool Map"</span><span class="tip-card__rank">Systematize</span></div><div class="tip-card__desc"><p>For hybrid success, pre-decide "what gets which tool." Eliminate deliberation time by creating your personal "tool map."</p><p style="margin-top:.75rem">Example: Idea memos -&gt; Digital (Simple Memo), Study notes -&gt; Handwritten (A5 notebook), Meeting notes -&gt; Digital (Simple Memo, organized in email later), Book impressions -&gt; Handwritten (margin notes + digital capture of key parts), Diary -&gt; Handwritten (5 min before bed). Fixing the tool per use case eliminates "which should I use?" decision costs, making the memo habit stick.</p></div></div>
 </div>

diff --git a/en/blog/journaling-for-beginners.html b/en/blog/journaling-for-beginners.html
@@ -264,7 +264,7 @@ Leave any field blank if you prefer.
 </div>
 </section>
 <div class="cta-box"><div class="cta-box__title"><span lang="en">Capture a short note to review later</span></div><div class="cta-box__desc"><span lang="en">Send a short note to your configured email or connected destination. The free allowance is three sends per day.</span></div><a aria-label="Download on the App Store" class="app-store-badge" data-cta-cluster="blog" data-cta-placement="bottom" data-cta-position="bottom" data-cta-variant="v1" href="https://apps.apple.com/us/app/id6758438948?pt=128498560&amp;ct=en__bottom&amp;mt=8" lang="en"><img alt="Download on the App Store" class="badge-img" height="40" loading="lazy" src="/assets/img/app-store-badge-en.svg" width="120"/></a></div>
-<section class="lp-section"><h2 class="lp-section__title"><span lang="en">Related Pages</span></h2><div class="internal-links"><a href="/en/blog/brain-science-memo"><span lang="en">Brain Science of Memos</span></a><a href="/en/blog/morning-memo-routine"><span lang="en">Morning Memo Routine</span></a><a href="/en/blog/memo-taking-tips"><span lang="en">10 Note-Taking Tips</span></a><a href="/en/blog/minimalist-digital-memo"><span lang="en">Minimalist Memos</span></a><a href="/en/blog/gen-z-memo"><span lang="en">Gen Z Memo Tips</span></a><a href="/en/blog/"><span lang="en">All Articles</span></a></div></section>
+<section class="lp-section"><h2 class="lp-section__title"><span lang="en">Related Pages</span></h2><div class="internal-links"><a href="/en/blog/brain-science-memo"><span lang="en">Memory Research and Notes</span></a><a href="/en/blog/morning-memo-routine"><span lang="en">Morning Memo Routine</span></a><a href="/en/blog/memo-taking-tips"><span lang="en">10 Note-Taking Tips</span></a><a href="/en/blog/minimalist-digital-memo"><span lang="en">Minimalist Memos</span></a><a href="/en/blog/gen-z-memo"><span lang="en">Gen Z Memo Tips</span></a><a href="/en/blog/"><span lang="en">All Articles</span></a></div></section>
 </div>
 <!-- SEO: Auto-generated related content links -->
 <!-- One named next step — scripts/add-next-step.py, docs/SEO_AIO_PLAN_2026-08.md §4 P1-1.

diff --git a/blog/student-memo-app.html b/blog/student-memo-app.html
@@ -325,7 +325,7 @@
 
 <div class="cta-box"><div class="cta-box__title"><span lang="ja">大学生活を制するメモアプリ</span></div><div class="cta-box__desc"><span lang="ja">講義の疑問や面接の振り返りを短く記録。自分宛メールに残し、あとから検索できます。</span></div><a data-cta-variant="v1" data-cta-cluster="blog" data-cta-placement="mid" lang="ja" href="https://apps.apple.com/jp/app/id6758438948?pt=128498560&amp;ct=jp__mid&amp;mt=8" class="app-store-badge" aria-label="App Store からダウンロード"><img class="badge-img" src="/assets/img/app-store-badge-ja.svg" width="109" height="40" alt="App Store からダウンロード" loading="lazy"></a></div>
 
-    <section class="lp-section"><h2 class="lp-section__title"><span lang="ja">関連ページ</span></h2><div class="internal-links"><a href="/blog/memo-taking-tips"><span lang="ja">メモの取り方コツ10選</span></a><a href="/blog/brain-science-memo"><span lang="ja">脳科学とメモ</span></a><a href="/blog/reading-notes-guide"><span lang="ja">読書メモの残し方</span></a><a href="/blog/free-memo-apps-ranking"><span lang="ja">無料メモアプリランキング</span></a><a href="/blog/gen-z-memo"><span lang="ja">Z世代のメモ術</span></a><a href="/blog/"><span lang="ja">ブログ一覧</span></a></div></section>
+    <section class="lp-section"><h2 class="lp-section__title"><span lang="ja">関連ページ</span></h2><div class="internal-links"><a href="/blog/memo-taking-tips"><span lang="ja">メモの取り方コツ10選</span></a><a href="/blog/brain-science-memo"><span lang="ja">メモと記憶の研究</span></a><a href="/blog/reading-notes-guide"><span lang="ja">読書メモの残し方</span></a><a href="/blog/free-memo-apps-ranking"><span lang="ja">無料メモアプリランキング</span></a><a href="/blog/gen-z-memo"><span lang="ja">Z世代のメモ術</span></a><a href="/blog/"><span lang="ja">ブログ一覧</span></a></div></section>
   </div>
 <!-- SEO: Auto-generated related content links -->
   <!-- One named next step — scripts/add-next-step.py, docs/SEO_AIO_PLAN_2026-08.md §4 P1-1.

diff --git a/blog/journaling-for-beginners.html b/blog/journaling-for-beginners.html
@@ -283,7 +283,7 @@
 
 <div class="cta-box"><div class="cta-box__title"><span lang="ja">後で見返すために、短く残す</span></div><div class="cta-box__desc"><span lang="ja">記録したい短い文章を、設定したメールや連携先へ。無料枠は1日3通です。</span></div><a data-cta-variant="v1" data-cta-cluster="blog" data-cta-placement="bottom" data-cta-position="bottom" lang="ja" href="https://apps.apple.com/jp/app/id6758438948?pt=128498560&amp;ct=jp__bottom&amp;mt=8" class="app-store-badge" aria-label="App Store からダウンロード"><img class="badge-img" src="/assets/img/app-store-badge-ja.svg" width="109" height="40" alt="App Store からダウンロード" loading="lazy"></a></div>
 
-    <section class="lp-section"><h2 class="lp-section__title"><span lang="ja">関連ページ</span></h2><div class="internal-links"><a href="/blog/brain-science-memo"><span lang="ja">脳科学とメモ</span></a><a href="/blog/morning-memo-routine"><span lang="ja">朝メモ習慣</span></a><a href="/blog/memo-taking-tips"><span lang="ja">メモの取り方コツ10選</span></a><a href="/blog/minimalist-digital-memo"><span lang="ja">ミニマリストのメモ術</span></a><a href="/blog/gen-z-memo"><span lang="ja">Z世代のメモ術</span></a><a href="/blog/"><span lang="ja">ブログ一覧</span></a></div></section>
+    <section class="lp-section"><h2 class="lp-section__title"><span lang="ja">関連ページ</span></h2><div class="internal-links"><a href="/blog/brain-science-memo"><span lang="ja">メモと記憶の研究</span></a><a href="/blog/morning-memo-routine"><span lang="ja">朝メモ習慣</span></a><a href="/blog/memo-taking-tips"><span lang="ja">メモの取り方コツ10選</span></a><a href="/blog/minimalist-digital-memo"><span lang="ja">ミニマリストのメモ術</span></a><a href="/blog/gen-z-memo"><span lang="ja">Z世代のメモ術</span></a><a href="/blog/"><span lang="ja">ブログ一覧</span></a></div></section>
   </div>
 <!-- SEO: Auto-generated related content links -->
   <!-- One named next step — scripts/add-next-step.py, docs/SEO_AIO_PLAN_2026-08.md §4 P1-1.

diff --git a/en/blog/student-memo-app.html b/en/blog/student-memo-app.html
@@ -297,7 +297,7 @@
 </div>
 </section>
 <div class="cta-box"><div class="cta-box__title"><span lang="en">The memo app that conquers college</span></div><div class="cta-box__desc"><span lang="en">Save brief lecture questions and interview reflections to your email, then search them later.</span></div><a aria-label="Download on the App Store" class="app-store-badge" data-cta-cluster="blog" data-cta-placement="mid" data-cta-variant="v1" href="https://apps.apple.com/us/app/id6758438948?pt=128498560&amp;ct=en__mid&amp;mt=8" lang="en"><img alt="Download on the App Store" class="badge-img" height="40" loading="lazy" src="/assets/img/app-store-badge-en.svg" width="120"/></a></div>
-<section class="lp-section"><h2 class="lp-section__title"><span lang="en">Related Pages</span></h2><div class="internal-links"><a href="/en/blog/memo-taking-tips"><span lang="en">10 Note-Taking Tips</span></a><a href="/en/blog/brain-science-memo"><span lang="en">Brain Science of Memos</span></a><a href="/en/blog/reading-notes-guide"><span lang="en">Reading Notes Guide</span></a><a href="/en/blog/free-memo-apps-ranking"><span lang="en">Free App Ranking</span></a><a href="/en/blog/gen-z-memo"><span lang="en">Gen Z Memo Tips</span></a><a href="/en/blog/"><span lang="en">All Articles</span></a></div></section>
+<section class="lp-section"><h2 class="lp-section__title"><span lang="en">Related Pages</span></h2><div class="internal-links"><a href="/en/blog/memo-taking-tips"><span lang="en">10 Note-Taking Tips</span></a><a href="/en/blog/brain-science-memo"><span lang="en">Memory Research and Notes</span></a><a href="/en/blog/reading-notes-guide"><span lang="en">Reading Notes Guide</span></a><a href="/en/blog/free-memo-apps-ranking"><span lang="en">Free App Ranking</span></a><a href="/en/blog/gen-z-memo"><span lang="en">Gen Z Memo Tips</span></a><a href="/en/blog/"><span lang="en">All Articles</span></a></div></section>
 </div>
 <!-- SEO: Auto-generated related content links -->
 <!-- One named next step — scripts/add-next-step.py, docs/SEO_AIO_PLAN_2026-08.md §4 P1-1.
